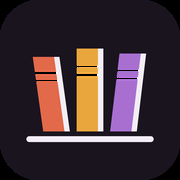
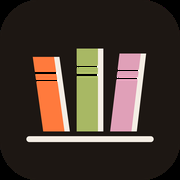
Fecha a identidade: coral sobre café, com título abaixo das capas
Decisão tomada entre as três paletas em avaliação. O bloco :root de
css/app.css passa a ser o fundo marrom-tinta com o trio coral · oliva ·
rosa; como marca, degradê do herói e componentes saem todos dessas
variáveis, foi só esse bloco que mudou no CSS.

Junto vão as coisas que dependiam da cor:

- ícones do PWA regerados na paleta nova (192, 512, maskable e apple-touch),
  com as três lombadas em coral, oliva e rosa;
- theme_color e background_color do manifest, e a meta theme-color, agora
  no #16110e do fundo;
- README reescrito: a paleta descrita, a tabela de telas refeita para o
  layout de três colunas e o diário em tabela, e uma seção nova sobre as
  duas escolhas que fogem do original.

As grades passam a mostrar o título abaixo da capa. O Letterboxd mostra só
os pôsteres, mas livro se reconhece bem menos pela capa do que filme por
pôster, e boa parte do acervo da Open Library não tem capa cadastrada. A
legenda já estava no HTML, então ligá-la foi trocar um display.

Verificação: as mesmas 30 asserções de ponta a ponta no Chromium seguem
passando, sem erro nem aviso de console. O acervo real continua sem ser
exercitado — a política de rede do contêiner bloqueia a openlibrary.org.

Claude-Session: https://claude.ai/code/session_0147NuLwqdCZicHBMKejMyaY

Changed region(s): [[0.4167, 0.25, 0.5556, 0.75], [0.6111, 0.2778, 0.7778, 0.75], [0.1667, 0.3056, 0.3611, 0.7222]]

diff --git a/css/app.css b/css/app.css
@@ -18,25 +18,25 @@
 
 :root {
   /* ------------------------------------------------------------- superficies */
-  --fundo:        #14181b;
-  --fundo-rgb:    20, 24, 27;   /* o mesmo --fundo, para usos com transparencia */
-  --fundo-2:      #1a1f23;
-  --superficie:   #232a30;
-  --superficie-2: #2c353c;
-  --borda:        #38424a;
-  --borda-2:      #47535d;
+  --fundo:        #16110e;
+  --fundo-rgb:    22, 17, 14;   /* o mesmo --fundo, para usos com transparencia */
+  --fundo-2:      #1d1713;
+  --superficie:   #271f19;
+  --superficie-2: #332920;
+  --borda:        #43362b;
+  --borda-2:      #55463a;
 
   /* ------------------------------------------------------------------ texto */
-  --texto:   #e8eef2;
-  --texto-2: #96a5b0;
-  --texto-3: #6b7a85;
+  --texto:   #f4ede4;
+  --texto-2: #b3a595;
+  --texto-3: #82756a;
 
   /* ------------------------------------------------------ o trio da marca */
-  --a1: #2ec4a6;   /* jade    — acao primaria, estrelas, "lido" */
-  --a2: #e8c07d;   /* areia   — segundo plano da marca */
-  --a3: #d4649b;   /* magenta — terceiro plano da marca */
+  --a1: #ff7a3d;   /* coral — acao primaria, estrelas, "lido" */
+  --a2: #a8b864;   /* oliva — segundo plano da marca, "quero ler" */
+  --a3: #e0a0b8;   /* rosa  — terceiro plano da marca, "curtir" */
 
-  --sobre-a1: #0d1614;   /* texto que fica POR CIMA da cor de acao */
+  --sobre-a1: #1f0d04;   /* texto que fica POR CIMA da cor de acao */
   --estrela: var(--a1);
   --curtida: var(--a3);
   --quero:   var(--a2);
@@ -167,10 +167,12 @@ img { display: block; max-width: 100%; }
 
 .cartao { display: block; }
 
-/* Grade sem legenda, como as grades de posters do original. Para voltar a
-   mostrar o titulo abaixo de cada capa, basta trocar este display por block. */
-.cartao-legenda { display: none; }
+/* Titulo abaixo da capa, com a nota logo embaixo. O original mostra so os
+   posteres, mas livro se reconhece bem menos pela capa do que filme por
+   poster — e boa parte do acervo da Open Library nem tem capa cadastrada.
+   Para voltar a grade so de capas, troque este display por none. */
 .cartao-legenda {
+  display: -webkit-box;
   margin-top: 6px;
   font-size: 12px; line-height: 1.35; color: var(--texto-2);
   overflow: hidden; -webkit-line-clamp: 2; -webkit-box-orient: vertical;

diff --git a/index.html b/index.html
@@ -5,7 +5,7 @@
 <meta name="viewport" content="width=device-width, initial-scale=1, viewport-fit=cover">
 <title>Letterbooks — seu diário de leitura</title>
 <meta name="description" content="Registre o que você lê, dê estrelas, escreva resenhas e monte listas. Um diário de leitura com o acervo aberto da Open Library.">
-<meta name="theme-color" content="#14181b">
+<meta name="theme-color" content="#16110e">
 <meta name="apple-mobile-web-app-capable" content="yes">
 <meta name="apple-mobile-web-app-status-bar-style" content="black-translucent">
 <meta name="apple-mobile-web-app-title" content="Letterbooks">

diff --git a/README.md b/README.md
@@ -3,11 +3,12 @@
 O que o Letterboxd faz por filmes, para livros: buscar no acervo, registrar o
 que você leu, dar estrelas, escrever resenha e montar listas.
 
-As funcionalidades seguem o original de perto — busca, log, avaliação em
-meia-estrela, resenha, curtir, favoritos, listas e diário. A identidade visual é
-própria: fundo ameixa-tinta no lugar do azul-ardósia, o trio **terracota ·
-âmbar · ameixa** no lugar do verde-azul-laranja, e uma marca de três lombadas de
-livro numa prateleira em vez dos três pontos.
+A arquitetura é a do original, seguida de perto — página do livro em três
+colunas com painel de ações à direita, diário em tabela com a célula do mês
+atravessando as linhas, navegação inline no cabeçalho, avaliação de meia em
+meia estrela. A paleta é própria: **coral sobre café**, um fundo marrom-tinta
+com o trio **coral · oliva · rosa**, no lugar do azul-ardósia com verde-limão.
+A marca são três lombadas numa prateleira, e não os três pontos.
 
 > **Aviso.** Projeto independente, sem vínculo com o Letterboxd. A inspiração é
 > declarada: a arquitetura de navegação e a gramática de avaliação vêm de lá.
@@ -34,12 +35,12 @@ navegação por hash justamente para isso.
 |---|---|
 | **Início** | Suas leituras recentes, a fila de "quero ler", os livros em alta na semana e um resumo de onde você está no ano. |
 | **Busca** | Título, autor ou ISBN, com paginação. Cola um ISBN de 10 ou 13 dígitos e ele busca pelo campo certo, não pelo texto livre. |
-| **Ficha do livro** | Capa, autoria, ano, número de páginas, quantidade de edições, sinopse e assuntos. Daqui saem todas as ações: registrar leitura, quero ler, curtir, favoritar e adicionar a listas. |
-| **Registro de leitura** | Nota de meia a cinco estrelas, data em que terminou, resenha, marcação de releitura e aviso de spoiler. Um livro pode ter vários registros — cada releitura é uma linha nova. |
-| **Diário** | Tudo o que você leu, agrupado por mês, da leitura mais recente para a mais antiga. Resenhas com spoiler ficam cobertas até você tocar. |
+| **Ficha do livro** | Três colunas: capa, conteúdo e painel de ações. O fundo atrás do título é a própria capa, ampliada e desfocada — o lugar que no original é do still do filme. O conteúdo tem abas de sinopse, detalhes e assuntos; o painel concentra lido, curtir, quero ler, registrar, listas, favoritar e o histograma das suas notas. |
+| **Registro de leitura** | Nota de meia a cinco estrelas, data em que terminou, resenha, marcação de releitura e aviso de spoiler. Um livro pode ter vários registros — cada releitura é uma linha nova. O botão da ponta do cabeçalho abre a busca e emenda direto aqui. |
+| **Diário** | Uma tabela: mês, dia, capa, livro, ano, nota, curtida. A célula do mês atravessa as linhas daquele mês. Resenhas com spoiler ficam cobertas até você tocar. |
 | **Estante** | Quatro prateleiras: quero ler, lidos, curtidos e favoritos. |
 | **Listas** | Agrupamentos livres — "li na praia", "para reler", "presentes". |
-| **Perfil** | Números do seu ano, meta de leitura com barra de progresso, histograma de como você avalia, favoritos, e exportar/importar/apagar. |
+| **Perfil** | Fileira de números do seu ano, meta de leitura com barra de progresso, histograma de como você avalia, favoritos e prévia do diário. |
 
 ## A avaliação em meia-estrela
 
@@ -49,7 +50,19 @@ metade direita vale a estrela inteira. Pelo teclado, as setas sobem e descem de
 
 A nota que aparece na capa e na ficha é sempre a da **leitura mais recente**.
 As notas antigas continuam no diário, e é a distribuição delas que alimenta o
-histograma do perfil.
+histograma do perfil e do painel.
+
+## Duas escolhas que fogem do original
+
+**As grades mostram o título abaixo da capa.** O Letterboxd mostra só os
+pôsteres. Aqui não funciona igual: livro se reconhece bem menos pela capa do que
+filme por pôster, e boa parte do acervo da Open Library não tem capa cadastrada.
+Voltar à grade só de capas é trocar um `display` em `.cartao-legenda`.
+
+**A paleta é quente.** O original é azul-ardósia frio com verde-limão. Todas as
+cores moram no bloco `:root` de `css/app.css` — marca, degradê do herói e todos
+os componentes saem dessas variáveis, então trocar o tema inteiro é reescrever
+esse bloco e mais nada.
 
 ## De onde vêm os livros
 
@@ -88,8 +101,8 @@ O seu diário não passa por aí — ele já é local.
 
 ```
 letterbooks/
-├── index.html              casca do app: topo, abas e a marca em SVG
-├── css/app.css             paleta, tipografia e todos os componentes
+├── index.html              casca do app: cabeçalho, navegação e a marca em SVG
+├── css/app.css             a paleta (bloco :root) e todos os componentes
 ├── js/
 │   ├── api.js              Open Library: busca, tendências, ficha e capas
 │   ├── dados.js            localStorage: leituras, listas, estatísticas
